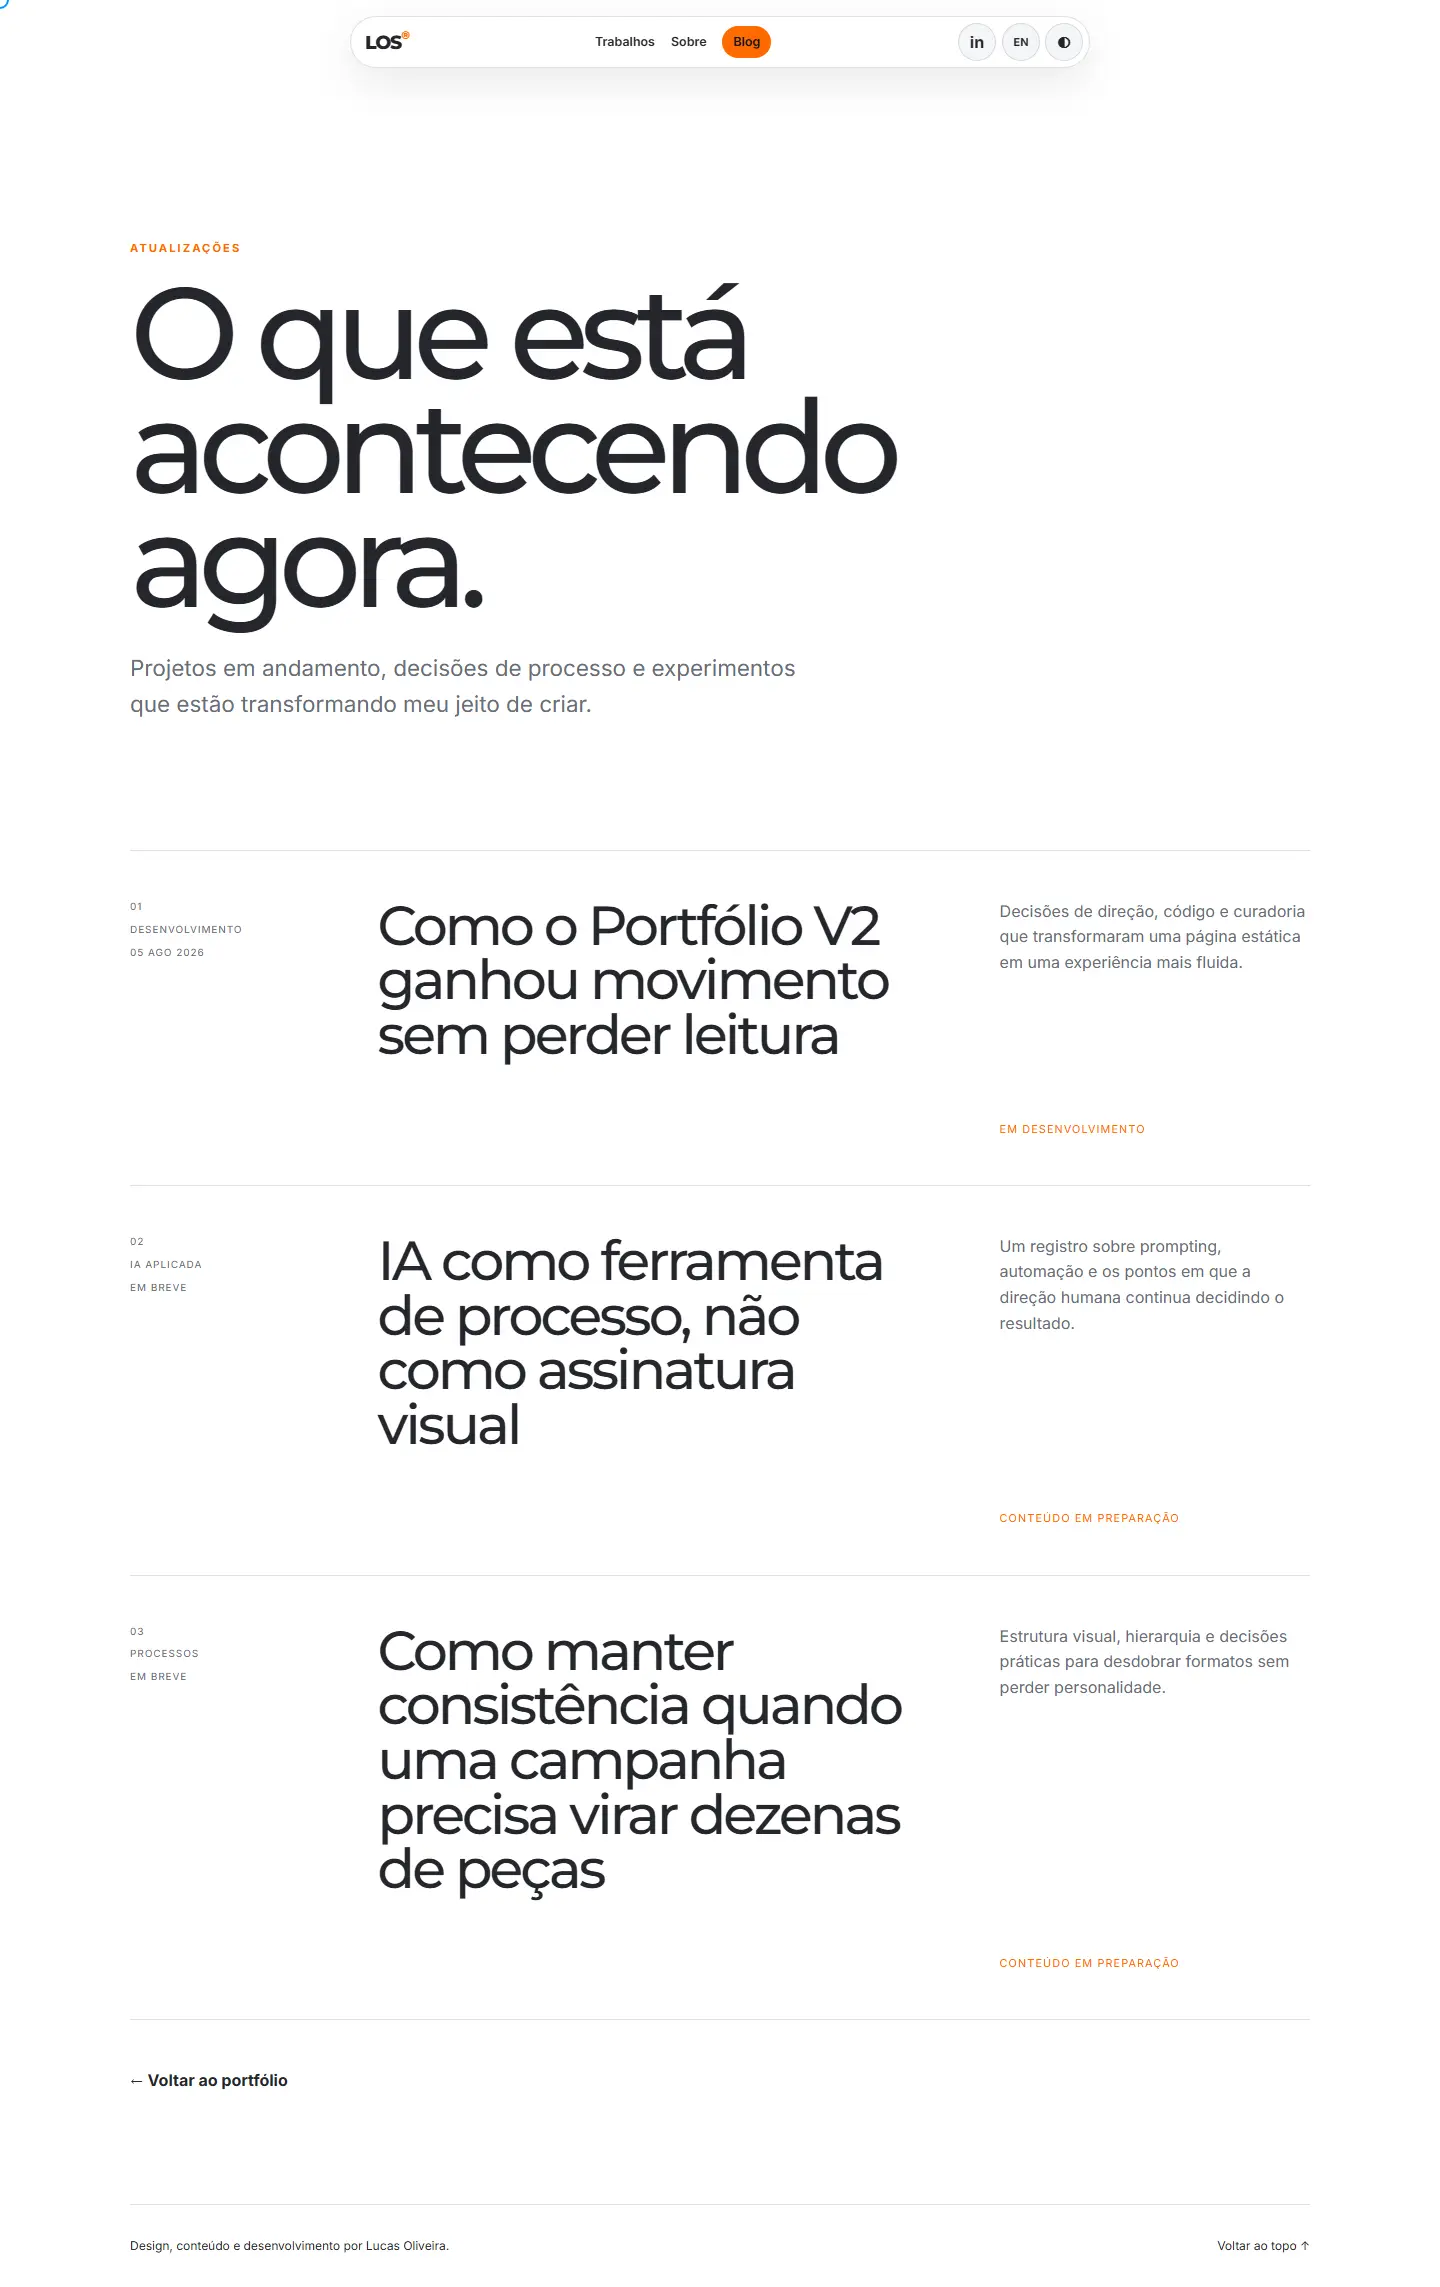
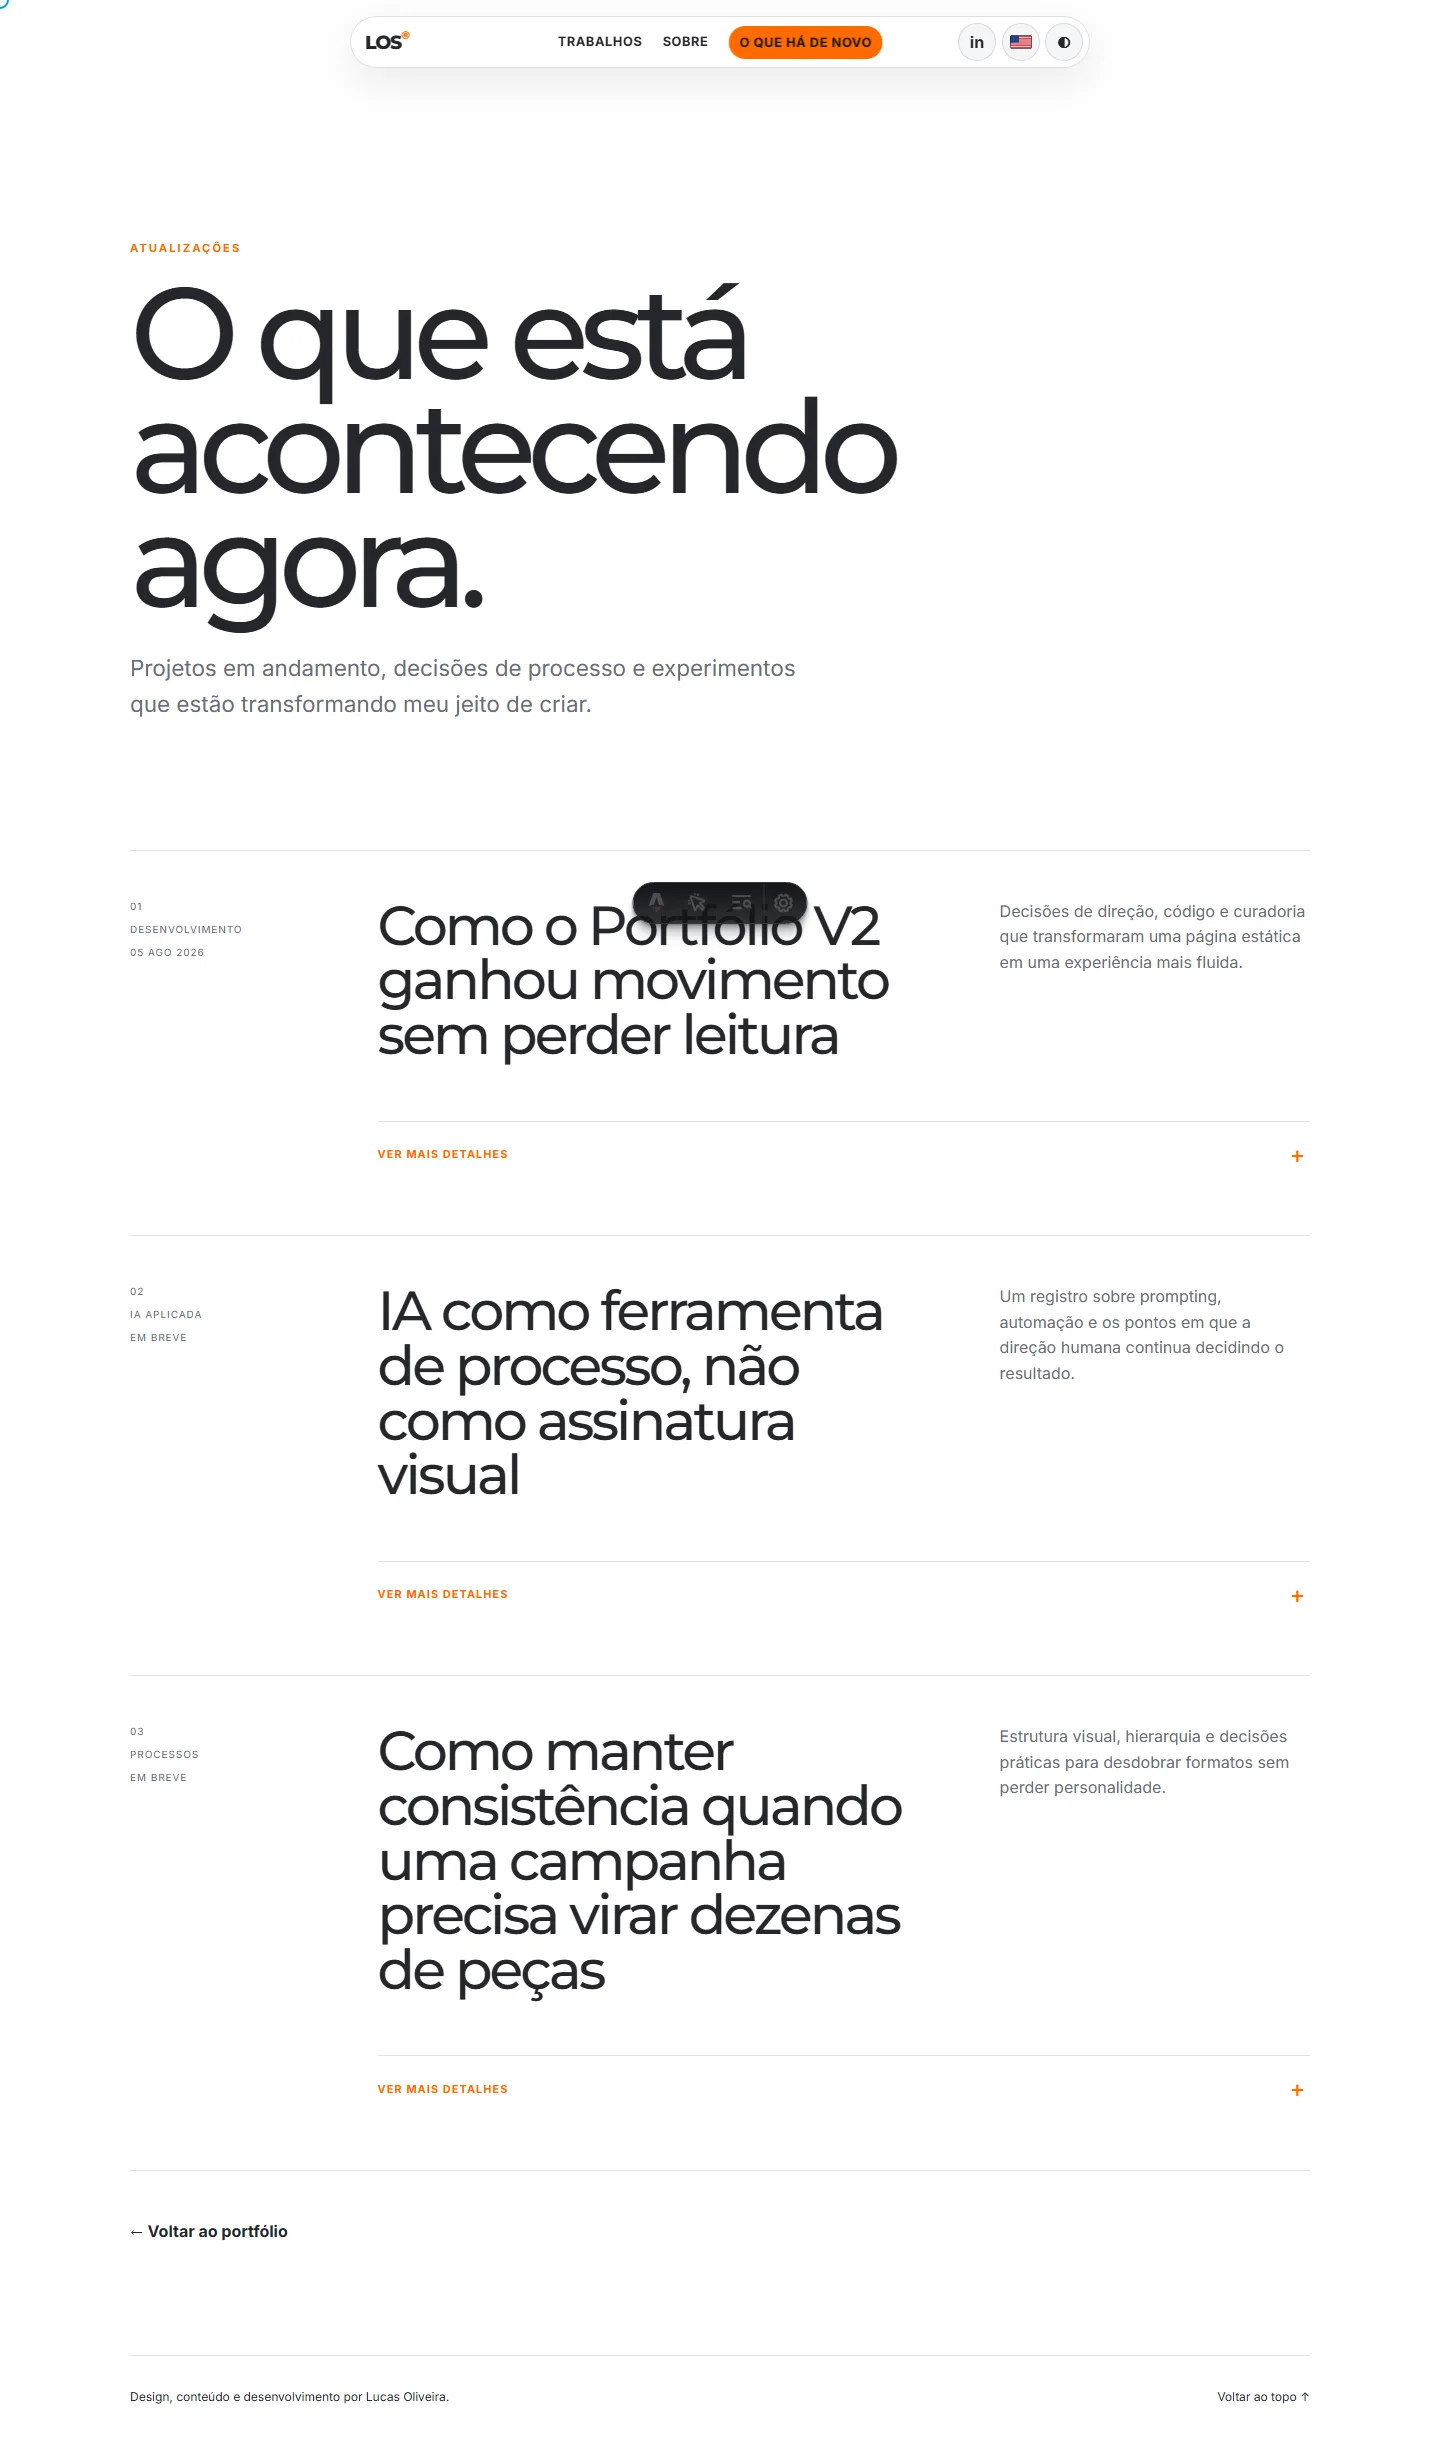
feat: usa bandeiras no seletor de idioma

diff --git a/tests/e2e/portfolio.spec.ts b/tests/e2e/portfolio.spec.ts
@@ -24,7 +24,7 @@ test('Portuguese home has the complete V2 structure', async ({ page }) => {
   await expect(page.locator('.blog-link')).toHaveText('O que há de novo');
   await expect(page.locator('.blog-link')).toHaveAttribute('data-parallax', '');
   await expect(page.locator('.topbar-links a').first()).toHaveCSS('text-transform', 'uppercase');
-  await expect(page.locator('.locale-chip svg')).toHaveCount(1);
+  await expect(page.locator('.locale-chip img')).toHaveAttribute('src', '/assets/icons/idioma-estados-unidos.svg');
   await expect(page.locator('.hero-kicker')).toHaveText('Manaus · Brasil · Desde 2019');
   await expect(page.locator('.topbar')).not.toContainText('Contato');
   await expect(page.locator('.topbar')).not.toContainText('Laboratório');
@@ -37,10 +37,12 @@ test('English home is complete and switchable', async ({ page }) => {
   await expect(page.locator('.project')).toHaveCount(6);
   await expect(page.getByText('Ver portfólio em português')).toBeVisible();
   await expect(page.locator('.hero-kicker')).toHaveText('Manaus · Brazil · Since 2019');
+  await expect(page.locator('.locale-chip img')).toHaveAttribute('src', '/assets/icons/idioma-brasil.svg');
 });
 
 test('theme persists and blog is localized', async ({ page }) => {
   await page.goto('/blog/');
+  await expect(page.locator('.locale-chip img')).toHaveAttribute('src', '/assets/icons/idioma-estados-unidos.svg');
   await expect(page.getByRole('heading', { level: 1 })).toContainText('O que está acontecendo agora.');
   await expect(page.locator('.blog-post')).toHaveCount(3);
   const firstUpdate = page.locator('.blog-post-details').first();
@@ -50,6 +52,7 @@ test('theme persists and blog is localized', async ({ page }) => {
   await page.getByRole('button', { name: 'Alternar tema' }).click();
   await expect(page.locator('html')).toHaveAttribute('data-theme', 'dark');
   await page.goto('/en/blog/');
+  await expect(page.locator('.locale-chip img')).toHaveAttribute('src', '/assets/icons/idioma-brasil.svg');
   await expect(page.getByRole('heading', { level: 1 })).toContainText('What is happening now.');
 });
 

diff --git a/src/styles/global.css b/src/styles/global.css
@@ -46,6 +46,7 @@ h1, h2, h3, p { margin-top: 0; }
 .topbar-actions { display: flex; gap: .35rem; align-items: center; margin-left: auto; }
 .icon-button, .locale-chip { width: 38px; height: 38px; display: grid; place-items: center; border: 1px solid var(--line); border-radius: 50%; background: var(--paper-soft); color: var(--ink); text-decoration: none; cursor: pointer; font-weight: 700; }
 .locale-chip { font-size: .68rem; }
+.locale-chip img { width: 22px; height: 16px; display: block; object-fit: cover; border-radius: 3px; }
 
 .hero { position: relative; min-height: min(850px, 100svh); overflow: hidden; background: #ef6b19; color: white; }
 .hero-art, .hero-art img, .hero-overlay { position: absolute; inset: 0; width: 100%; height: 100%; }

diff --git a/docs/superpowers/plans/2026-08-06-bandeiras-seletor-idioma.md b/docs/superpowers/plans/2026-08-06-bandeiras-seletor-idioma.md
@@ -4,7 +4,7 @@
 
 **Goal:** Trocar o ícone abstrato do seletor pelos SVGs de destino aprovados.
 
-**Architecture:** Os SVGs ficam em `public/assets/icons`. A topbar escolhe o asset a partir da localidade atual e mantém toda a navegação existente.
+**Architecture:** Os SVGs ficam em `public-site/assets/icons`, diretório público configurado no Astro. A topbar escolhe o asset a partir da localidade atual e mantém toda a navegação existente.
 
 **Tech Stack:** Astro, CSS, Playwright e Vitest.
 
@@ -19,8 +19,8 @@
 ### Task 1: Contrato e assets
 
 **Files:**
-- Create: `public/assets/icons/idioma-estados-unidos.svg`
-- Create: `public/assets/icons/idioma-brasil.svg`
+- Create: `public-site/assets/icons/idioma-estados-unidos.svg`
+- Create: `public-site/assets/icons/idioma-brasil.svg`
 - Modify: `tests/e2e/portfolio.spec.ts`
 
 - [ ] Registrar em Playwright os assets esperados em PT e EN.

diff --git a/docs/processo-v2/14-bandeiras-seletor-idioma.md b/docs/processo-v2/14-bandeiras-seletor-idioma.md
@@ -1,0 +1,20 @@
+# Bandeiras no seletor de idioma
+
+Data: 06 de agosto de 2026
+
+## Decisão
+
+O seletor mostra o destino da troca:
+
+- interface em português: bandeira dos Estados Unidos;
+- interface em inglês: bandeira do Brasil.
+
+Foram utilizados os arquivos `united-states_6595909.svg` e `brazil_6595879.svg` enviados por Lucas. As cópias locais estão em `public-site/assets/icons`, preservando o projeto sem dependências externas.
+
+O botão circular, o parallax, as rotas localizadas e os rótulos acessíveis foram mantidos.
+
+## Validação
+
+- Homes e blogs em português apontam para a bandeira dos Estados Unidos.
+- Homes e blogs em inglês apontam para a bandeira do Brasil.
+- Os dois SVGs respondem localmente com HTTP 200.
